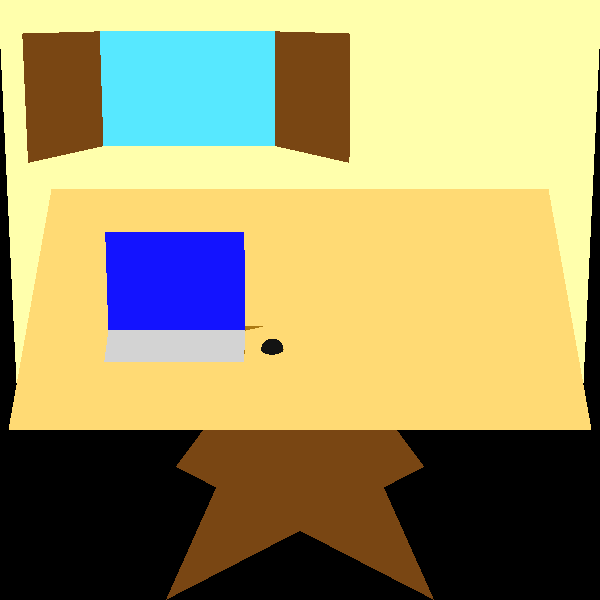
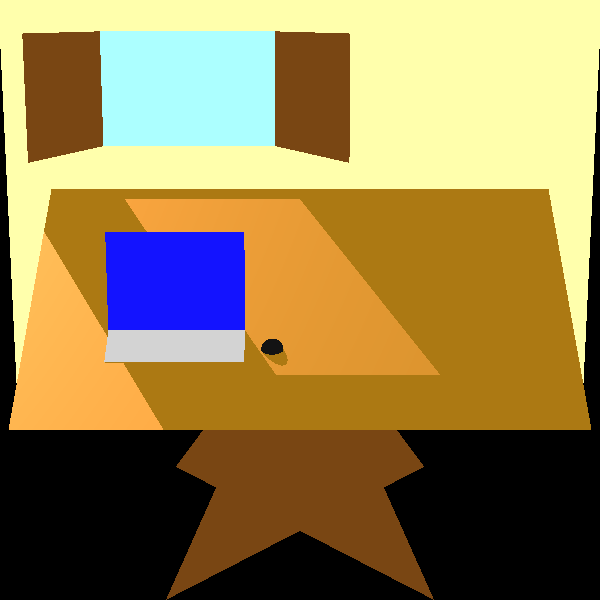
exercise 7 picture- changed the directional light vector

diff --git a/tests/elements/Exercise7.java b/tests/elements/Exercise7.java
@@ -28,41 +28,41 @@ public class Exercise7 {
                 //desk
                 new Polygon(new Point3D(-100, -100, 0), new Point3D(-100, 100, 0), new Point3D(100, 100, 0), new Point3D(100, -100, 0))
                         .setEmission(new Color(153, 102, 0)).setMaterial(new Material().setKd(0.5).setKs(0.5).setShininess(30)),
-                new Triangle(new Point3D(0,0,0),new Point3D(-50,-50,-100),new Point3D(50,50,-100))
+                new Triangle(new Point3D(0, 0, 0), new Point3D(-50, -50, -100), new Point3D(50, 50, -100))
                         .setEmission(new Color(102, 51, 0)).setMaterial(new Material().setKd(0.5).setKs(0.5).setShininess(30)),
-                new Triangle(new Point3D(0,0,0),new Point3D(-50,50,-100),new Point3D(50,-50,-100))
+                new Triangle(new Point3D(0, 0, 0), new Point3D(-50, 50, -100), new Point3D(50, -50, -100))
                         .setEmission(new Color(102, 51, 0)).setMaterial(new Material().setKd(0.5).setKs(0.5).setShininess(30)),
 
                 //computer
                 new Polygon(new Point3D(25, -70, 0.25), new Point3D(25, -20, 0.25), new Point3D(50, -20, 0.25), new Point3D(50, -70, 0.25))
                         .setEmission(new Color(java.awt.Color.lightGray)),
-                new Polygon(new Point3D(25,-70,0.25),new Point3D(25,-70,40),new Point3D(25,-20,40),new Point3D(25,-20,0.25))
+                new Polygon(new Point3D(25, -70, 0.25), new Point3D(25, -70, 40), new Point3D(25, -20, 40), new Point3D(25, -20, 0.25))
                         .setEmission(new Color(java.awt.Color.blue)),
                 //mouse
-                new Sphere(4,new  Point3D(40,-10,0)).setEmission(new Color(java.awt.Color.black)),
+                new Sphere(4, new Point3D(40, -10, 0)).setEmission(new Color(java.awt.Color.black)),
 
                 //window
-                new Polygon(new Point3D(-120,-80,10),new Point3D(-120,-80,60),new Point3D(-120,-10,60),new Point3D(-120,-10,10))
-                        .setEmission(new Color(51, 204, 255)).setMaterial(new Material().setKd(0.5).setKs(0.5).setShininess(30).setkT(0.8)),
-                new Polygon(new Point3D(-120,-80,10),new Point3D(-110,-110,7),new Point3D(-110,-110,63),new Point3D(-120,-80,60))
+                new Polygon(new Point3D(-120, -80, 10), new Point3D(-120, -80, 60), new Point3D(-120, -10, 60), new Point3D(-120, -10, 10))
+                        .setEmission(new Color(153, 255, 255)).setMaterial(new Material().setKd(0.2).setKs(0.2).setShininess(20).setkT(0.7)),
+                new Polygon(new Point3D(-120, -80, 10), new Point3D(-110, -110, 7), new Point3D(-110, -110, 63), new Point3D(-120, -80, 60))
                         .setEmission(new Color(102, 51, 0)),
-                new Polygon(new Point3D(-120,-10,10),new Point3D(-110,20,7),new Point3D(-110,20,63),new Point3D(-120,-10,60))
+                new Polygon(new Point3D(-120, -10, 10), new Point3D(-110, 20, 7), new Point3D(-110, 20, 63), new Point3D(-120, -10, 60))
                         .setEmission(new Color(102, 51, 0)),
 
 
                 //wall
-                new Polygon(new Point3D(-120,-120,10),new Point3D(-120,-120,-100),new Point3D(-120,120,-100),new Point3D(-120,120,10))
-                .setEmission(new Color(255, 255, 153)),
-                 new Polygon(new Point3D(-120,-120,10),new Point3D(-120,-80,10),new Point3D(-120,-80,80),new Point3D(-120,-120,80))
-                .setEmission(new Color(255, 255, 153)),
-                new Polygon(new Point3D(-120,-10,10),new Point3D(-120,120,10),new Point3D(-120,120,80),new Point3D(-120,-10,80))
+                new Polygon(new Point3D(-120, -120, 10), new Point3D(-120, -120, -100), new Point3D(-120, 120, -100), new Point3D(-120, 120, 10))
                         .setEmission(new Color(255, 255, 153)),
-                 new Polygon(new Point3D(-120,-80,60),new Point3D(-120,-80,80),new Point3D(-120,120,80),new Point3D(-120,120,60))
-                          .setEmission(new Color(255, 255, 153))
+                new Polygon(new Point3D(-120, -120, 10), new Point3D(-120, -80, 10), new Point3D(-120, -80, 80), new Point3D(-120, -120, 80))
+                        .setEmission(new Color(255, 255, 153)),
+                new Polygon(new Point3D(-120, -10, 10), new Point3D(-120, 120, 10), new Point3D(-120, 120, 80), new Point3D(-120, -10, 80))
+                        .setEmission(new Color(255, 255, 153)),
+                new Polygon(new Point3D(-120, -80, 60), new Point3D(-120, -80, 80), new Point3D(-120, 120, 80), new Point3D(-120, 120, 60))
+                        .setEmission(new Color(255, 255, 153))
 
         );
         scene.lights.add( //
-                new DirectionalLight(new Color(350, 200, 200), new Vector(-1, 2, -10)));
+                new DirectionalLight(new Color(350, 200, 200), new Vector(3, 1, -1)));
 
         Render render = new Render() //
                 .setImageWriter(new ImageWriter("exercise7", 600, 600)) //
